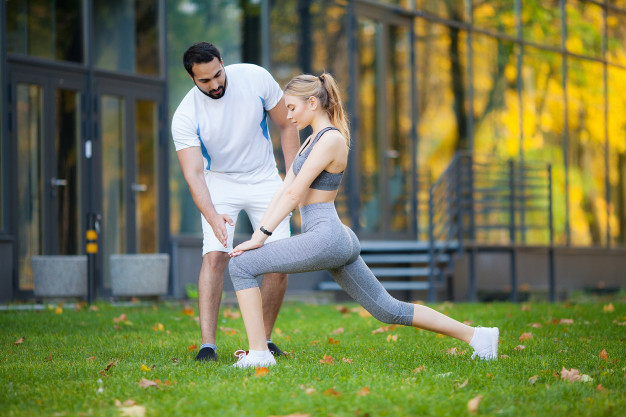
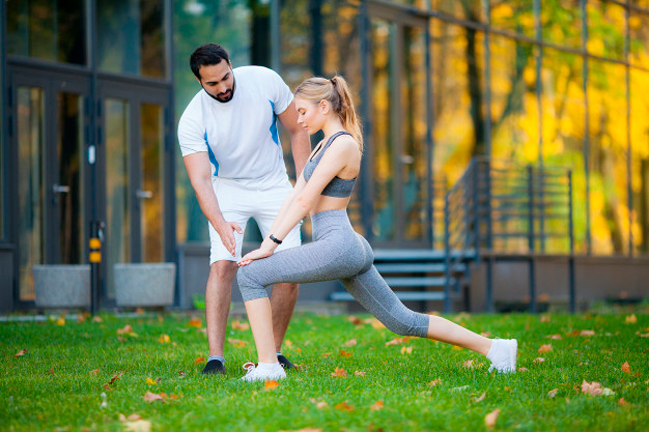
arrumando imagens

diff --git a/servicos.html b/servicos.html
@@ -53,7 +53,7 @@
                     </div>
         
                     <div class="col-3">
-                        <img src="imagens/pilates2-servicos.png" width="40%">
+                        <img src="imagens/pilates2-servicos.jpg" width="40%">
                         <h3>Pilates</h3>
 						<div class="botao-por-favor">
                             <div class="btns">

diff --git a/css/main.css b/css/main.css
@@ -147,7 +147,7 @@ section .wrapper .col-3 {
 }
 section .wrapper .col-3 img {
 	width: 100%;
-    height: 300px;
+    height: 432px;
     margin-bottom: 7%;
     border-radius: 10px;
 }
